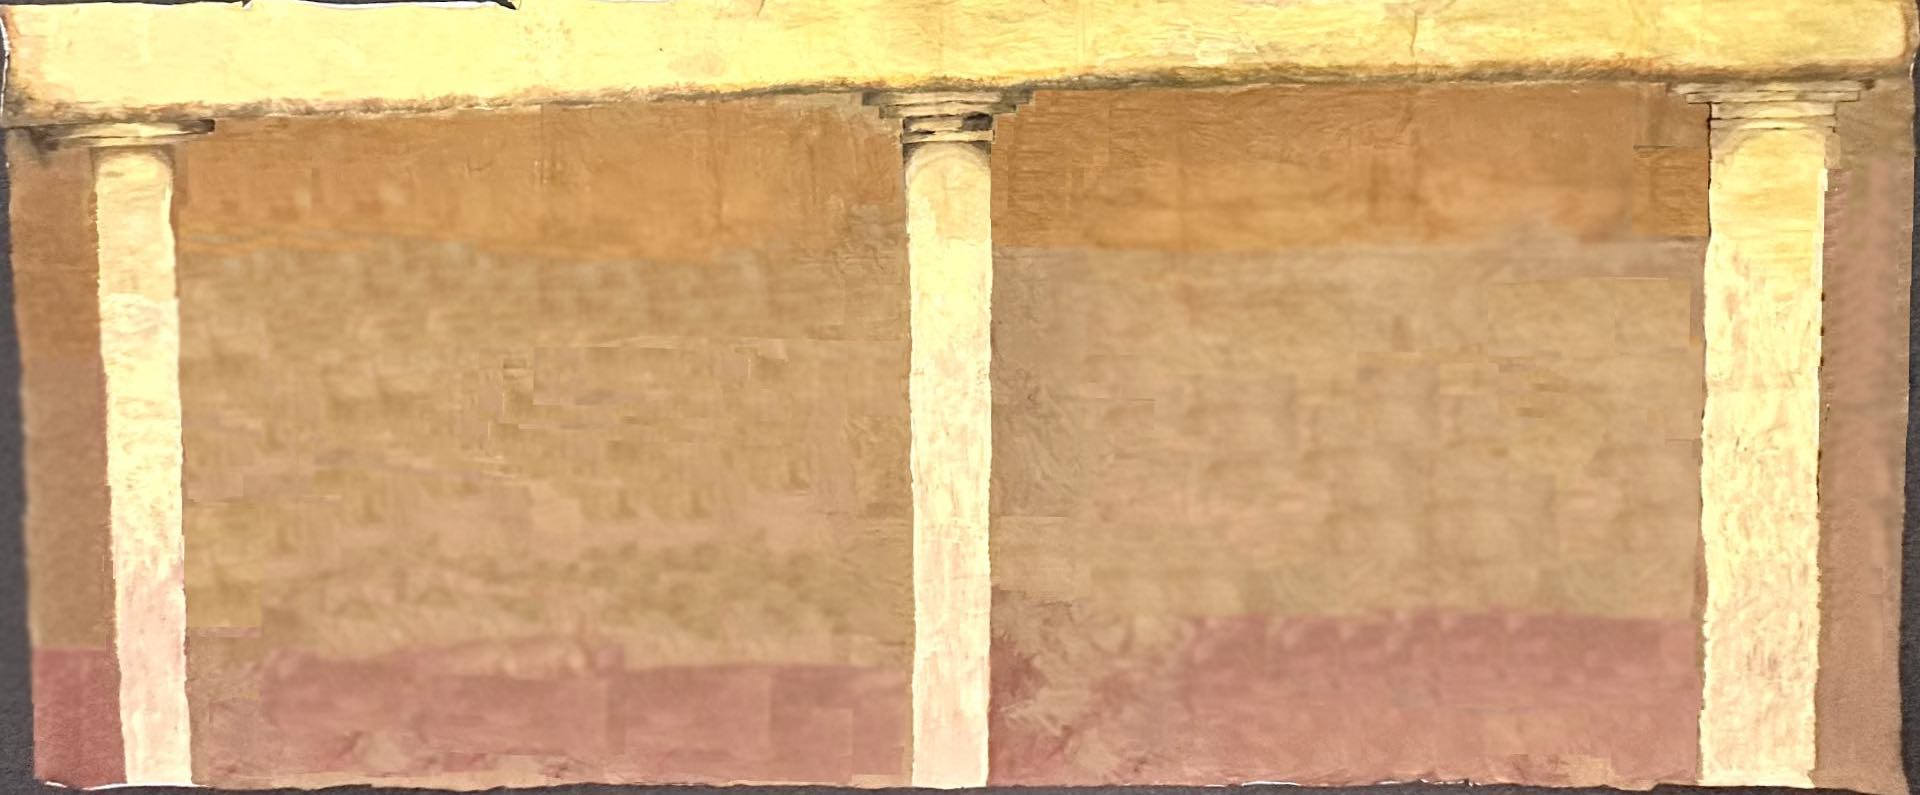
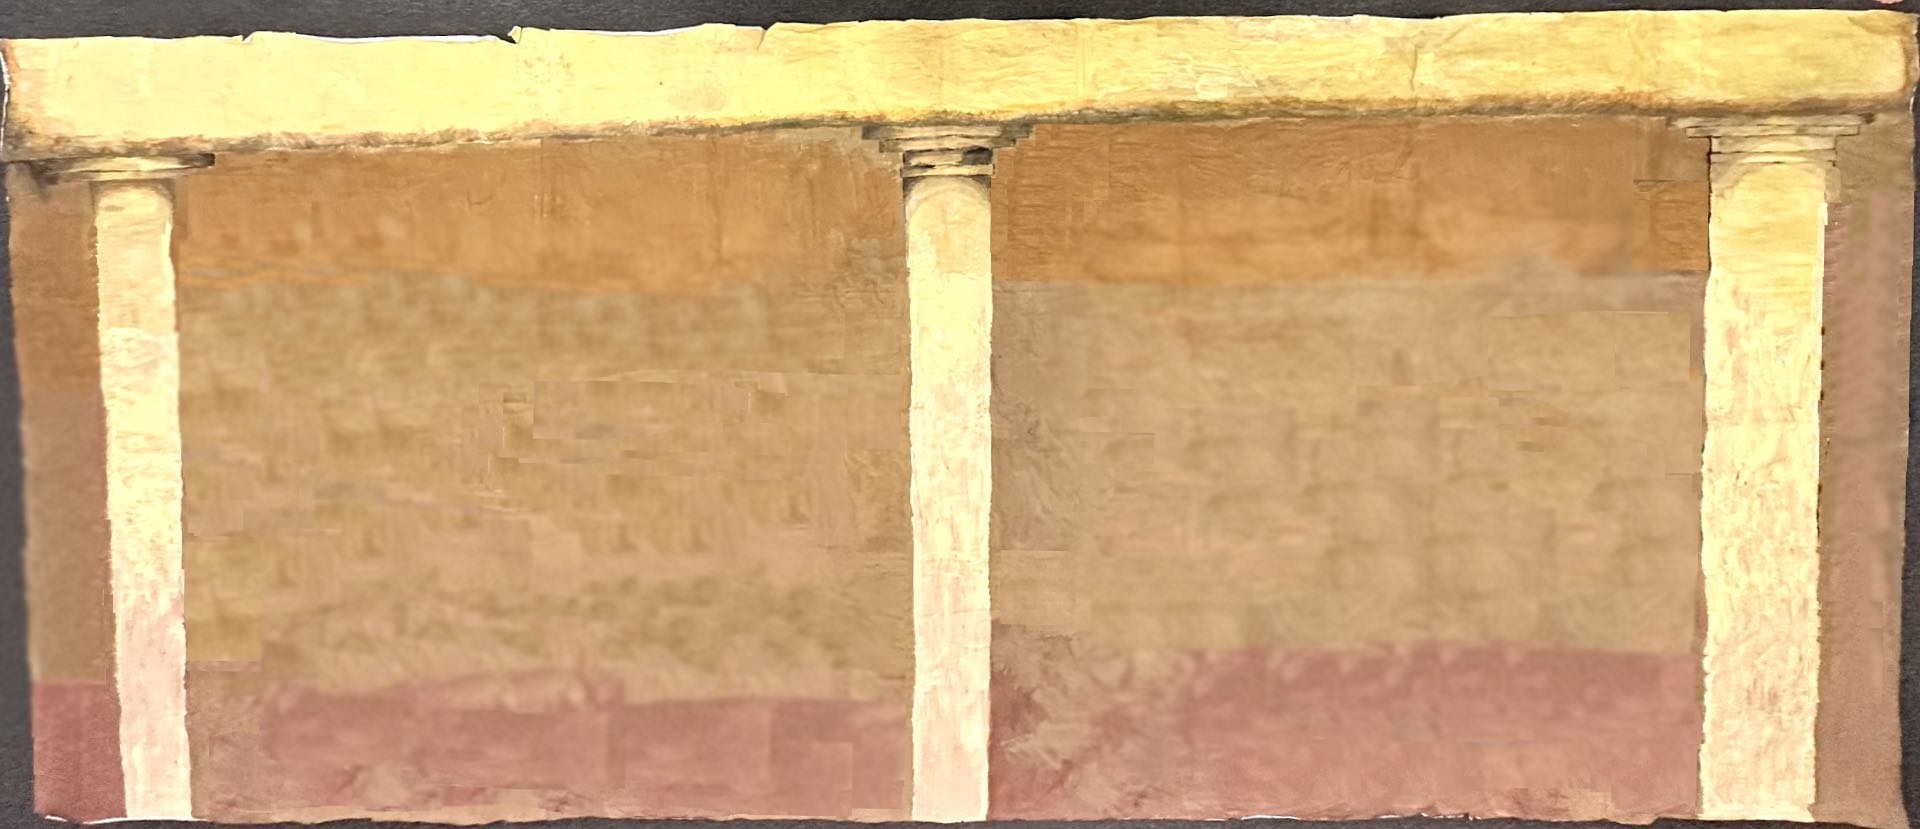
update background image

diff --git a/css/event.css b/css/event.css
@@ -158,7 +158,7 @@ button {
   width: 100%;
   height: 100%;
   /* You can adjust the height as needed */
-  background-image: url('../event/images/synagogue.jpg');
+  background-image: url('../event/images/synagogue.jpeg');
   background-size: cover;
   background-repeat: no-repeat;
   position: relative;
